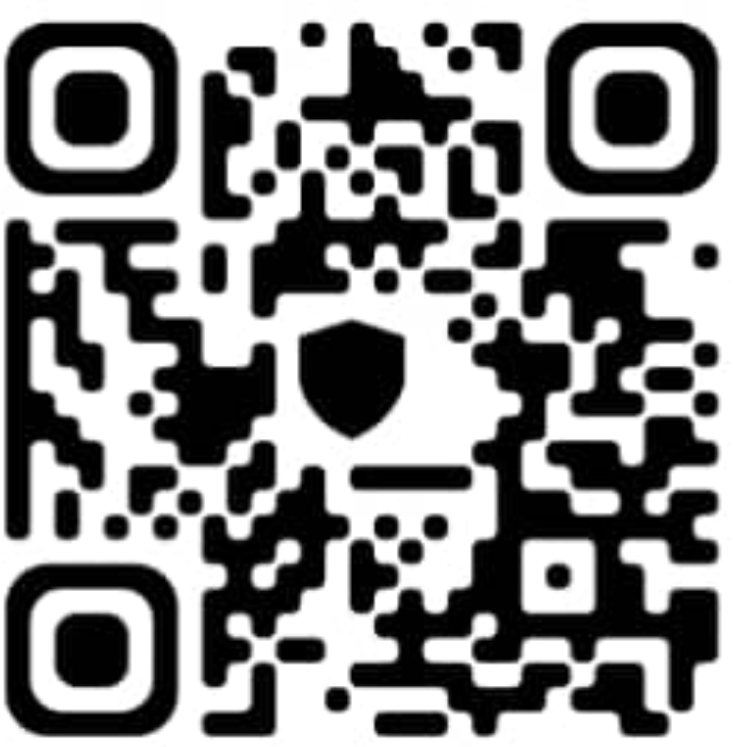
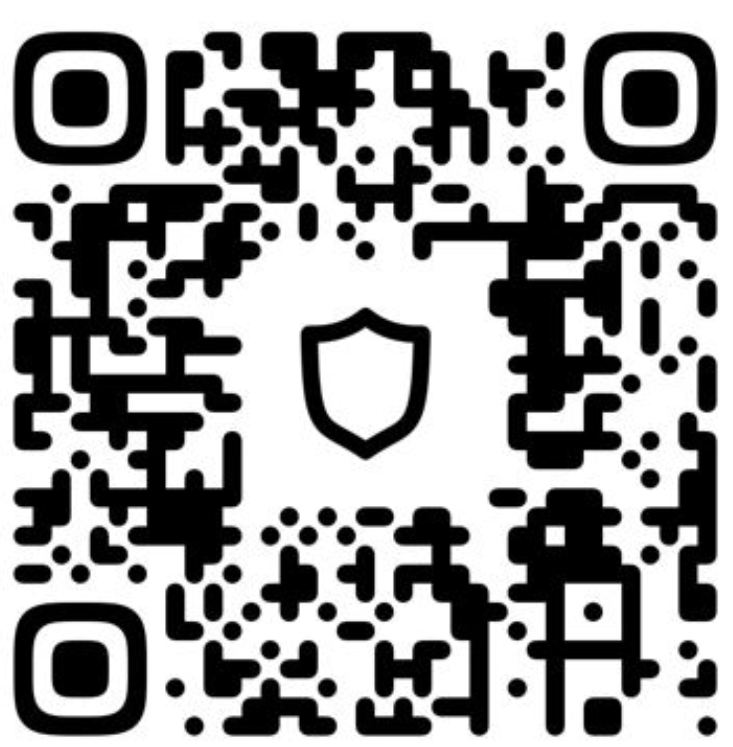
added new address

diff --git a/components/PendingCards.js b/components/PendingCards.js
@@ -1,41 +1,51 @@
-import { useState } from 'react';
-import PropTypes from 'prop-types';
+import { useState } from "react";
+import PropTypes from "prop-types";
 // @mui
-import { styled } from '@mui/material/styles';
-import { Typography, TextField, Card, Box, CardContent, IconButton, Modal, Stack, Button } from '@mui/material';
-import { MdDelete } from 'react-icons/md';
-import { LoadingButton } from '@mui/lab';
-import axios from 'axios';
-import { toast } from 'react-toastify';
-import CopyClipboard from './CopyToClipboard';
-import { useRouter } from 'next/router';
+import { styled } from "@mui/material/styles";
+import {
+  Typography,
+  TextField,
+  Card,
+  Box,
+  CardContent,
+  IconButton,
+  Modal,
+  Stack,
+  Button,
+} from "@mui/material";
+import { MdDelete } from "react-icons/md";
+import { LoadingButton } from "@mui/lab";
+import axios from "axios";
+import { toast } from "react-toastify";
+import CopyClipboard from "./CopyToClipboard";
+import { useRouter } from "next/router";
 
 //number and word transforms
-import { capitalCase } from 'change-case';
-import numeral from 'numeral';
+import { capitalCase } from "change-case";
+import numeral from "numeral";
 //vext/Image
-import Image from 'next/image';
+import Image from "next/image";
 
 //barcode images
-import usdtImg from '../assets/img/usdt.jpg';
-import btcImg from '../assets/img/btc.jpg';
+import usdtImg from "../assets/img/usdt.jpg";
+import btcImg from "../assets/img/btc.jpg";
 // ----------------------------------------------------------------------
 
 const RootStyle = styled(Card)(() => ({
-  height: '100%',
-  width: '100%',
-  textAlign: 'left',
-  alignItems: 'center',
+  height: "100%",
+  width: "100%",
+  textAlign: "left",
+  alignItems: "center",
 }));
 
 const style = {
-  position: 'absolute',
-  top: '50%',
-  left: '50%',
-  transform: 'translate(-50%, -50%)',
+  position: "absolute",
+  top: "50%",
+  left: "50%",
+  transform: "translate(-50%, -50%)",
   width: 400,
-  bgcolor: 'background.paper',
-  border: '2px solid #000',
+  bgcolor: "background.paper",
+  border: "2px solid #000",
   borderRadius: 2,
   boxShadow: 24,
   p: 3,
@@ -55,9 +65,9 @@ function PendingCards({
   },
   user,
 }) {
-  console.log('pending id', _id);
+  console.log("pending id", _id);
   const [isSubmitting, setIsSubmitting] = useState(false);
-  const [transactionId, setTransactionId] = useState('');
+  const [transactionId, setTransactionId] = useState("");
   const [open, setOpen] = useState(false);
   const router = useRouter();
   const handleAmtChange = (e) => {
@@ -68,20 +78,20 @@ function PendingCards({
   const handleClose = () => setOpen(false);
   const handleSubmit = () => {
     if (transactionId.length <= 5) {
-      toast.error('invalid transactionId');
+      toast.error("invalid transactionId");
       return;
     }
     setIsSubmitting(true);
     axios
       .post(`/api/user/${user._id}/invest/${_id}`, { transactionId })
       .then(() => {
-        router.push('/dashboard/invest/all');
+        router.push("/dashboard/invest/all");
         setIsSubmitting(false);
       })
       .catch((err) => {
         setIsSubmitting(false);
         if (err.response) {
-          toast.error('error, submitting transaction');
+          toast.error("error, submitting transaction");
         } else {
           toast.error(err.message);
         }
@@ -94,12 +104,12 @@ function PendingCards({
       .then((res) => {
         setIsSubmitting(false);
         handleClose();
-        router.push('/dashboard/invest/plans');
+        router.push("/dashboard/invest/plans");
       })
       .catch((err) => {
         setIsSubmitting(false);
         if (err.response) {
-          toast.error('error, submitting transaction');
+          toast.error("error, submitting transaction");
         } else {
           toast.error(err.message);
         }
@@ -118,7 +128,8 @@ function PendingCards({
             Unpaid investment
           </Typography>
           <Typography id="modal-modal-description" sx={{ mt: 2 }}>
-            Are you sure you wnt to delete this investment of deposit: {numeral(capital).format('0.00')} USD
+            Are you sure you wnt to delete this investment of deposit:{" "}
+            {numeral(capital).format("0.00")} USD
           </Typography>
           <Stack mt={3} direction="row" spacing={3}>
             <LoadingButton
@@ -131,7 +142,13 @@ function PendingCards({
             >
               Confirm
             </LoadingButton>
-            <Button size="medium" type="submit" variant="contained" color="warning" onClick={handleClose}>
+            <Button
+              size="medium"
+              type="submit"
+              variant="contained"
+              color="warning"
+              onClick={handleClose}
+            >
               Cancel
             </Button>
           </Stack>
@@ -139,12 +156,20 @@ function PendingCards({
       </Modal>
       <CardContent
         sx={{
-          display: 'flex',
-          flexDirection: 'column',
+          display: "flex",
+          flexDirection: "column",
         }}
       >
-        <Box mb={1} sx={{ display: 'flex', justifyContent: 'space-between', alignItems: 'center', width: '100%' }}>
-          <Box sx={{ display: 'flex', alignItems: 'center' }}>
+        <Box
+          mb={1}
+          sx={{
+            display: "flex",
+            justifyContent: "space-between",
+            alignItems: "center",
+            width: "100%",
+          }}
+        >
+          <Box sx={{ display: "flex", alignItems: "center" }}>
             <Box>
               <img
                 style={{
@@ -156,21 +181,21 @@ function PendingCards({
               />
             </Box>
 
-            {currency === 'btc' && (
-              <Typography paddingLeft={2} align={'center'} variant="subtitle2">
+            {currency === "btc" && (
+              <Typography paddingLeft={2} align={"center"} variant="subtitle2">
                 {` Bitcoin(BTC)${capitalCase(name)} Plan`}
               </Typography>
             )}
-            {currency === 'usdt' && (
-              <Typography paddingLeft={2} align={'center'} variant="subtitle2">
+            {currency === "usdt" && (
+              <Typography paddingLeft={2} align={"center"} variant="subtitle2">
                 {` Tether(USDT)${capitalCase(name)} Plan`}
               </Typography>
             )}
           </Box>
           <Box
             sx={{
-              color: 'error.main',
-              justifySelf: 'end',
+              color: "error.main",
+              justifySelf: "end",
             }}
           >
             <IconButton onClick={handleOpen}>
@@ -184,25 +209,35 @@ function PendingCards({
           </Box>
         </Box>
 
-        <Typography align="center" variant="h5">{`Deposit: ${numeral(capital).format('0.00')} USD`}</Typography>
+        <Typography align="center" variant="h5">{`Deposit: ${numeral(
+          capital
+        ).format("0.00")} USD`}</Typography>
 
-        <Typography align="center" variant="body2" color={'primary'}>
+        <Typography align="center" variant="body2" color={"primary"}>
           Make payment to the Address below
         </Typography>
         <Box>
-          {currency === 'btc' && <Image src={btcImg} alt="barcode" />}
-          {currency === 'usdt' && <Image src={usdtImg} alt="barcode" />}
+          {currency === "btc" && <Image src={btcImg} alt="barcode" />}
+          {currency === "usdt" && <Image src={usdtImg} alt="barcode" />}
         </Box>
         <Box>
           <>
-            <Typography align="center" variant="body2" color={'primary'}>
+            <Typography align="center" variant="body2" color={"primary"}>
               Wallet Address
             </Typography>
-            {currency === 'btc' && (
-              <CopyClipboard value={'bc1qvkqqy9d5xh6asuqrsay8s7st2svcg6q45rstl5'} size="small" disabled />
+            {currency === "btc" && (
+              <CopyClipboard
+                value={"bc1qs8rq3x8k75tyne9ukxwyfjv6zg2nsqmwuh7nhf"}
+                size="small"
+                disabled
+              />
             )}
-            {currency === 'usdt' && (
-              <CopyClipboard value={'TRBPFxHc1jFAdjEjC3ANG2KnZbFy4H6yVR'} size="small" disabled />
+            {currency === "usdt" && (
+              <CopyClipboard
+                value={"TXmaQB2m6hjEorLzYzyPaD1LYiwJb3DAmd"}
+                size="small"
+                disabled
+              />
             )}
             <TextField
               fullWidth
